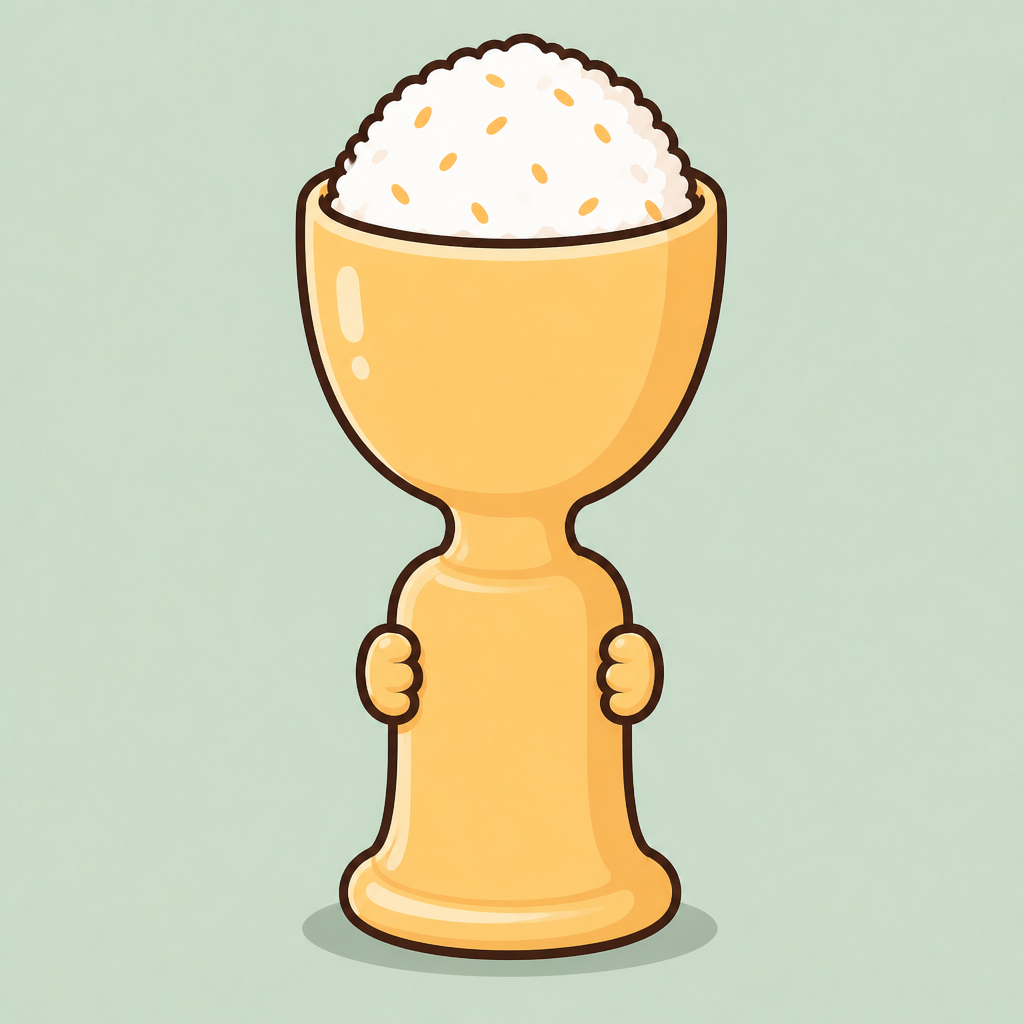
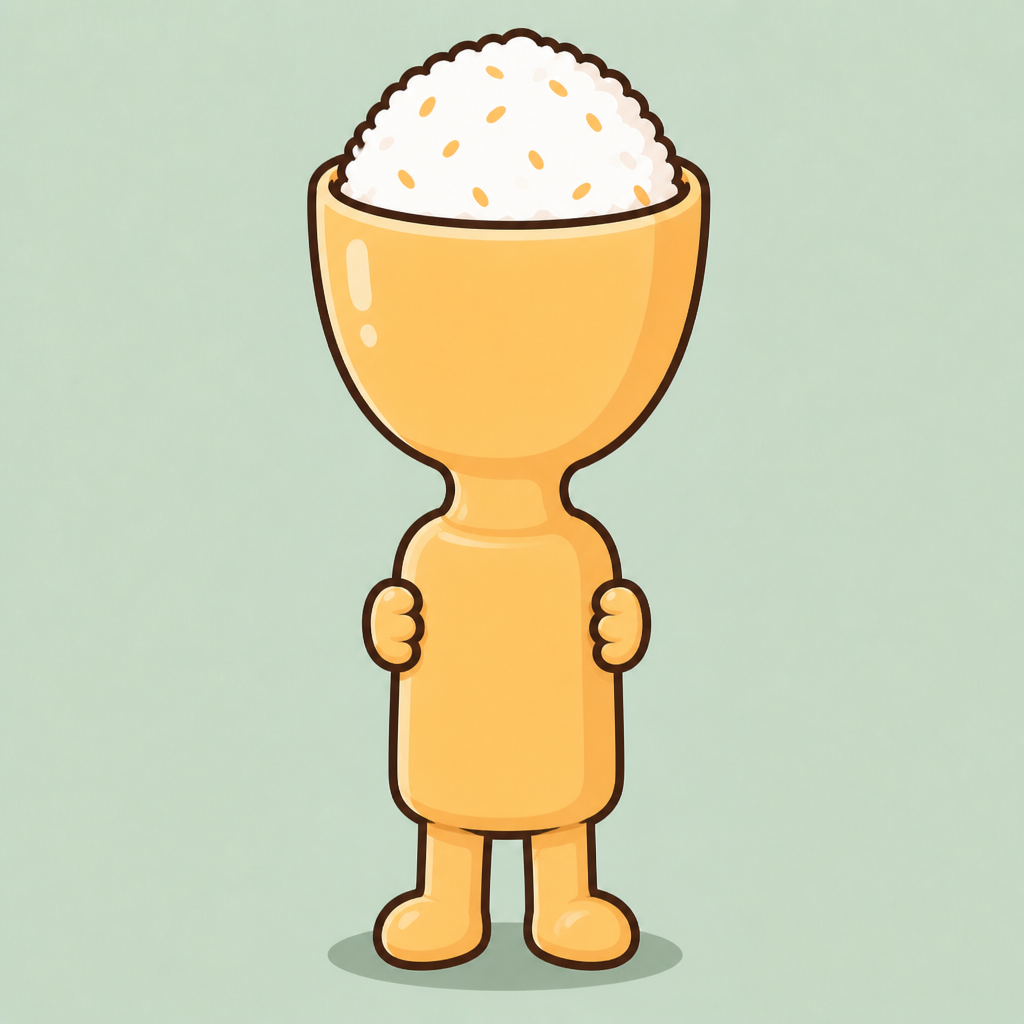
Add 碗仔 legs and retune poke zones off the hair
Give the blank mascot real legs/feet. Move 頭 hotspot onto the bowl
head (not rice hair); align 心／肚／手／腳 to the new silhouette.

Changed region(s): [[0.2812, 0.0312, 0.7188, 0.9688], [0.4375, 0.125, 0.4688, 0.1562]]

diff --git a/frontend/src/components/body-scan-figure.tsx b/frontend/src/components/body-scan-figure.tsx
@@ -71,17 +71,17 @@ const CHIP_DECOR: Partial<Record<BodyChipKey, { emoji: string; spot: Spot }>> = 
   floaty: { emoji: '✨', spot: 'auraR' },
 };
 
-/** Hair=rice · head cup · neck ABOVE hands · body with hands · feet. */
+/** Decor on anatomy: hair tip / bowl-head / chest / belly / hands / legs. */
 const SPOT_STYLE: Record<Spot, object> = {
-  head: { top: '1%', alignSelf: 'center' },
-  face: { top: '18%', alignSelf: 'center' },
-  chest: { top: '28%', alignSelf: 'center' },
-  belly: { top: '48%', alignSelf: 'center' },
-  leftHand: { top: '56%', left: '6%' },
-  rightHand: { top: '56%', right: '6%' },
-  feet: { bottom: '1%', alignSelf: 'center' },
-  auraL: { top: '24%', left: '4%' },
-  auraR: { top: '24%', right: '4%' },
+  head: { top: '5%', alignSelf: 'center' }, // hair tip decorations
+  face: { top: '20%', alignSelf: 'center' }, // bowl head (not hair)
+  chest: { top: '40%', alignSelf: 'center' },
+  belly: { top: '52%', alignSelf: 'center' },
+  leftHand: { top: '54%', left: '4%' },
+  rightHand: { top: '54%', right: '4%' },
+  feet: { top: '78%', alignSelf: 'center' },
+  auraL: { top: '36%', left: '2%' },
+  auraR: { top: '36%', right: '2%' },
 };
 
 const REGION_COLORS: Record<BodyRegionKey, string> = {
@@ -108,7 +108,10 @@ const STAGE_BG: Record<WanjaiMood, string> = {
   fiery: '#FCE8E2',
 };
 
-/** Rice hair · head · neck(above hands) · hands on body · pedestal feet. */
+/**
+ * Poke zones aligned to silhouette (not the rice hair):
+ * 頭 = bowl head under hair · 心 = upper body · 肚 = torso · 手 · 腳 = legs
+ */
 const HOTSPOTS: {
   region: BodyRegionKey;
   top: `${number}%`;
@@ -116,12 +119,12 @@ const HOTSPOTS: {
   width: `${number}%`;
   height: `${number}%`;
 }[] = [
-  { region: 'head', top: '3%', left: '28%', width: '44%', height: '16%' },
-  { region: 'chest', top: '20%', left: '28%', width: '44%', height: '18%' },
-  { region: 'belly', top: '42%', left: '32%', width: '36%', height: '12%' },
-  { region: 'hands', top: '52%', left: '8%', width: '22%', height: '14%' },
-  { region: 'hands', top: '52%', left: '70%', width: '22%', height: '14%' },
-  { region: 'whole', top: '68%', left: '30%', width: '40%', height: '24%' },
+  { region: 'head', top: '14%', left: '28%', width: '44%', height: '18%' },
+  { region: 'chest', top: '36%', left: '30%', width: '40%', height: '12%' },
+  { region: 'belly', top: '48%', left: '32%', width: '36%', height: '10%' },
+  { region: 'hands', top: '50%', left: '6%', width: '20%', height: '14%' },
+  { region: 'hands', top: '50%', left: '74%', width: '20%', height: '14%' },
+  { region: 'whole', top: '66%', left: '28%', width: '44%', height: '26%' },
 ];
 
 function FloatingDecor({ emoji, delay }: { emoji: string; delay: number }) {
@@ -387,7 +390,7 @@ export function BodyScanFigure({
         ))}
       </Animated.View>
 
-      <Text style={styles.pokeHint}>戳戳碗仔 · 裝飾會話你知佢點</Text>
+      <Text style={styles.pokeHint}>戳碗頭／心／肚／手／腳 · 唔使戳頭髮</Text>
 
       <View style={styles.regionRow}>
         {(['head', 'chest', 'belly', 'hands', 'whole'] as BodyRegionKey[]).map((r) => (
@@ -476,25 +479,25 @@ const styles = StyleSheet.create({
   },
   tremble: {
     position: 'absolute',
-    top: '50%',
+    top: '48%',
     fontSize: 18,
     color: COLORS.textPrimary,
     opacity: 0.55,
     fontWeight: '800',
   },
-  trembleL: { left: 14 },
-  trembleR: { right: 14 },
+  trembleL: { left: 10 },
+  trembleR: { right: 10 },
   sweatWrap: {
     ...StyleSheet.absoluteFillObject,
     zIndex: 3,
   },
   sweat: {
     position: 'absolute',
-    top: '10%',
+    top: '16%',
     fontSize: 20,
   },
-  sweatL: { left: 40 },
-  sweatR: { right: 40 },
+  sweatL: { left: 38 },
+  sweatR: { right: 38 },
   starWrap: {
     ...StyleSheet.absoluteFillObject,
     zIndex: 3,

diff --git a/frontend/app/ritual/body.tsx b/frontend/app/ritual/body.tsx
@@ -54,11 +54,11 @@ const GAG_LINES: Partial<Record<BodyChipKey, string>> = {
 };
 
 const REGION_PROMPTS: Record<BodyRegionKey, string> = {
-  head: '戳頭髮（飯） · 頭而家點?',
-  chest: '戳頭下面碗身 · 胸口點?',
-  belly: '戳身體 · 肚仔點?',
+  head: '戳碗頭 · 頭有咩感覺?',
+  chest: '戳胸口 · 心跳定發熱?',
+  belly: '戳肚仔 · 有蝴蝶定石頭?',
   hands: '戳小手 · 出汗定捏緊?',
-  whole: '戳底座腳 · 想跳定想縮?',
+  whole: '戳雙腳 · 想跳定想縮?',
 };
 
 export default function RitualBodyScreen() {
